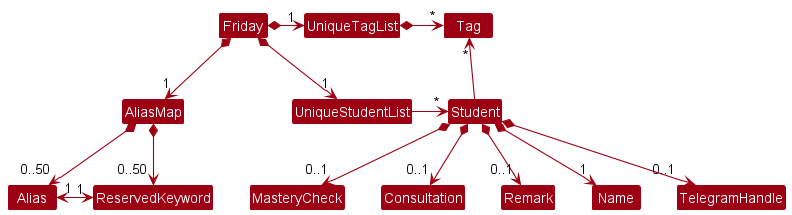
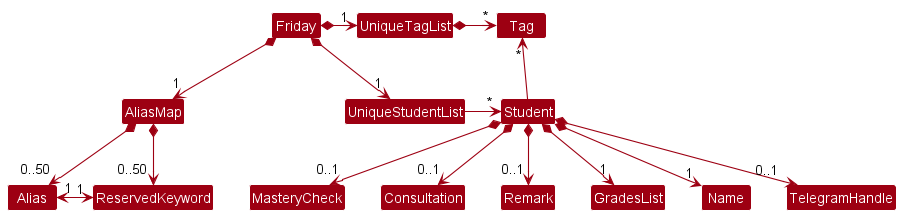
Update documentation

Changed region(s): [[0.0, 0.0558, 1.0, 0.9767], [0.2424, 0.2512, 0.2727, 0.3349]]

diff --git a/docs/DeveloperGuide.md b/docs/DeveloperGuide.md
@@ -241,10 +241,10 @@ for an alias-keyword mapping. As there is a mapping of `ls` to `list`, `Model#ge
 
 **Aspect: How `Alias` is stored in `AliasMap`:**
 
-|                                                                                                                          | **Pros**                       | **Cons**                                                                                                                                                                                 |
-|--------------------------------------------------------------------------------------------------------------------------|--------------------------------|------------------------------------------------------------------------------------------------------------------------------------------------------------------------------------------|
-| **Option 1 (current choice)** <br> Stored as an Alias-ReservedKeyword mapping in a Map                                   | Fast with O(1) time complexity | At high capacity, there might be complications due to collision in Map                                                                                                                   |
-| **Option 2** <br> Alias and ReservedKeyword stored within an association class in a List | Can store more Aliases         | To get an Alias, iteration through the whole list must be done causing the time complexity to be at O(Number of Aliases) and this might cause performance issues when there are many aliases |
+|                                                                                            | **Pros**                       | **Cons**                                                                                                                                                                                 |
+|--------------------------------------------------------------------------------------------|--------------------------------|------------------------------------------------------------------------------------------------------------------------------------------------------------------------------------------|
+| **Option 1 (current choice)** <br> Stored as an Alias-ReservedKeyword mapping in a Map     | Fast with O(1) time complexity | At high capacity, there might be complications due to collision in Map                                                                                                                   |
+| **Option 2** <br> Alias and ReservedKeyword stored within an association class in a List   | Can store more Aliases         | To get an Alias, iteration through the whole list must be done causing the time complexity to be at O(Number of Aliases) and this might cause performance issues when there are many aliases |
 _
 
 ### Grade Feature

diff --git a/docs/team/darrtzj.md b/docs/team/darrtzj.md
@@ -33,7 +33,9 @@ Given below are my contributions to the project.
     * Wrote documentation for the feature `alias`, `unalias` and `aliaslist` (Pull request [\#180](https://github.com/AY2223S1-CS2103T-W15-4/tp/pull/180))
     * Updated documentation for the feature `help` (Pull request [\#180](https://github.com/AY2223S1-CS2103T-W15-4/tp/pull/180))
   * Developer Guide:
-    * to be added soon
+    * Updated Non-functional requirements
+    * Updated UML diagrams in Model and Storage component (Pull request [\#192](https://github.com/AY2223S1-CS2103T-W15-4/tp/pull/192))
+    * Wrote documentation for the implementation of `alias`
 
 * **Contributions to team-based tasks**:
   * Added user stories
@@ -41,6 +43,7 @@ Given below are my contributions to the project.
   * Update project read me page (Pull request [\#66](https://github.com/AY2223S1-CS2103T-W15-4/tp/pull/66))
   * Update project notes with v1.2 demo
   * Update project notes with v1.3 demo
+  * Assigned issues for bug reports
 
 * **Community**:
   * PRs reviewed (with non-trivial review comments): [\#87](https://github.com/AY2223S1-CS2103T-W15-4/tp/pull/87), [\#92](https://github.com/AY2223S1-CS2103T-W15-4/tp/pull/92), [\#109](https://github.com/AY2223S1-CS2103T-W15-4/tp/pull/109)

diff --git a/docs/AboutUs.md b/docs/AboutUs.md
@@ -16,7 +16,7 @@ You can reach us at the consultation `seer[at]comp.nus.edu.sg`
 [[github](https://github.com/Yuvaraj0702)]
 [[portfolio](team/yuvaraj0702.md)]
 
-* Role: Project Advisor
+* Role: Team Lead
 * Responsibilities: Data
 
 ### Darren Teo Zhi Jie
@@ -26,8 +26,8 @@ You can reach us at the consultation `seer[at]comp.nus.edu.sg`
 [[github](http://github.com/darrtzj)]
 [[portfolio](team/darrtzj.md)]
 
-* Role: Team Lead
-* Responsibilities: UI
+* Role: Developer
+* Responsibilities: Dev ops, Data
 
 ### Tan How Suen
 

diff --git a/docs/UserGuide.md b/docs/UserGuide.md
@@ -11,9 +11,9 @@ If you can type fast, FRIDAY can get your student management tasks done faster t
 {:toc}
 
 --------------------------------------------------------------------------------------------------------------------
-## Quickstart
+## Quick start
 
-1. Ensure you have Java `11` or above installed in your computer.
+1. Ensure you have Java 11 or above installed in your computer.
 
 2. Download the latest `friday.jar` from [here](https://github.com/AY2223S1-CS2103T-W15-4/tp/releases).
 
